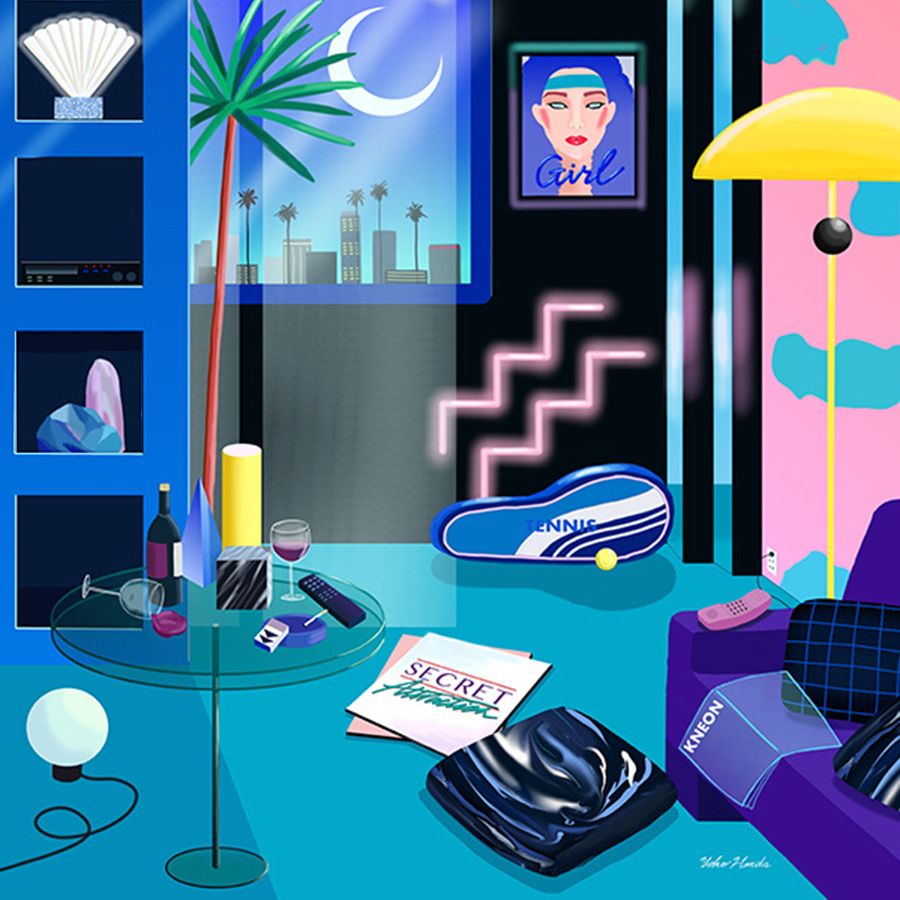
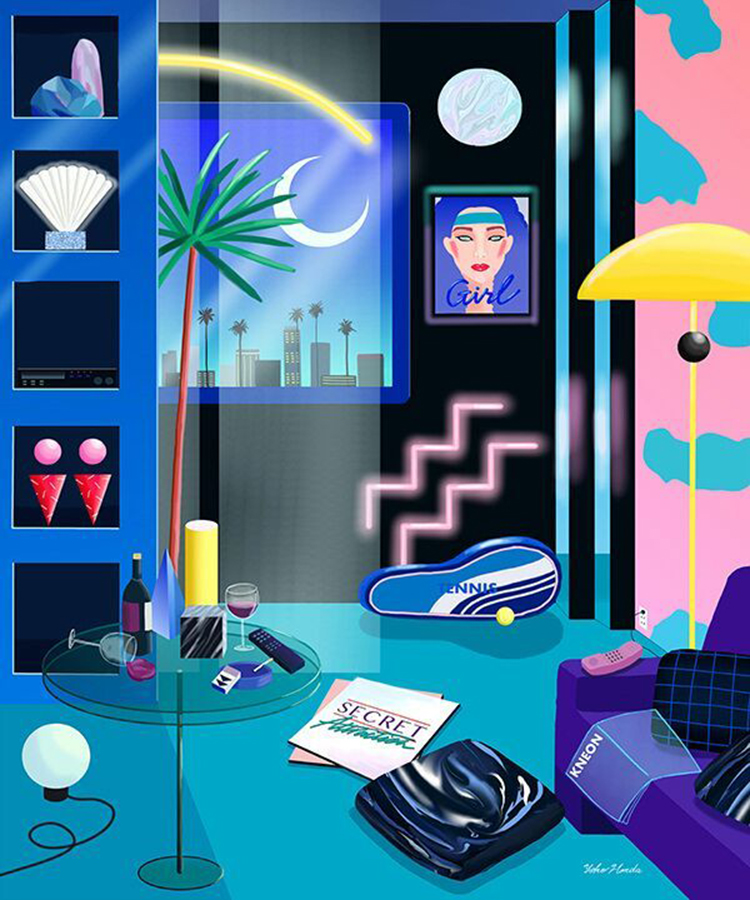
working on resizing room 8 but not done yet

diff --git a/src/components/game_play/rooms/room8/Room8.css b/src/components/game_play/rooms/room8/Room8.css
@@ -2,8 +2,6 @@
   cursor: url('../../../../images/hand.png') 30 100,auto;
 }
 
-
-
 /* -------------------------- NAVIGATE TO ROOM 6 ---------------------------- */
 
 #room8_go_to_room_7{
@@ -11,7 +9,7 @@
   bottom: 0px;
   left: 10px;
   width: 300px;
-  height: 200px;
+  height: 160px;
   /* border: 6px solid purple; */
 }
 
@@ -39,9 +37,9 @@
 #wine_glass_left{
   position: absolute;
   width: 120px;
-  height: 160px;
-  top: 480px;
-  right: 700px;
+  height: 131px;
+  top: 549px;
+  left: 50px;
   /* border: 3px solid green; */
 }
 
@@ -52,7 +50,6 @@
   height: 120px;
   top: 650px;
   right: 680px;
-  border: 3px solid green;
   background-color: white;
 }
 
@@ -60,10 +57,10 @@
 
 #allisons_tennis_racket {
   position: absolute;
-  width: 260px;
-  height: 120px;
-  top: 450px;
-  left: 420px;
+  width: 204px;
+  height: 92px;
+  top: 534px;
+  left: 357px;
   /* border: 3px solid green; */
 }
 
@@ -81,10 +78,10 @@
 #cigs {
   position: absolute;
   width: 40px;
-  height: 40px;
-  top: 615px;
-  left: 250px;
-  /* border: 3px solid green; */
+  height: 37px;
+  top: 658px;
+  left: 203px;
+  border: 3px solid green;
 }
 
 #cigs_message {
@@ -103,9 +100,9 @@
   position: absolute;
   width: 80px;
   height: 50px;
-  top: 580px;
-  left: 690px;
-  /* border: 3px solid green; */
+  top: 630px;
+  left: 571px;
+  border: 3px solid green;
 }
 
 /* -------------------------- BEACH SCENE ON TV ----------------------------- */

diff --git a/src/components/game_play/purse_container.js b/src/components/game_play/purse_container.js
@@ -58,8 +58,8 @@ class PurseContainer extends Component {
   }
 
   insertTape = () => {
-    if(this.state.x > -739 && this.state.x < -639 &&
-      this.state.y > -100 && this.state.y < 11) {
+    if(this.state.x > -800 && this.state.x < -719 &&
+      this.state.y > 50 && this.state.y < 145) {
       this.playTape()
     }
   }
@@ -76,6 +76,8 @@ class PurseContainer extends Component {
 
 
   render() {
+    console.log("x",this.state.x)
+    console.log("y",this.state.y)
     let cells = this.sortItemsInThePurseByID().map((cell) => {
         return (
           <Cell

diff --git a/src/reducer.js b/src/reducer.js
@@ -1,5 +1,5 @@
 const defaultState = {
-  currentRoom: 7,
+  currentRoom: 8,
   isPurseOpened: false,
   showPhone: false,
   findCrumpledNote: false,
